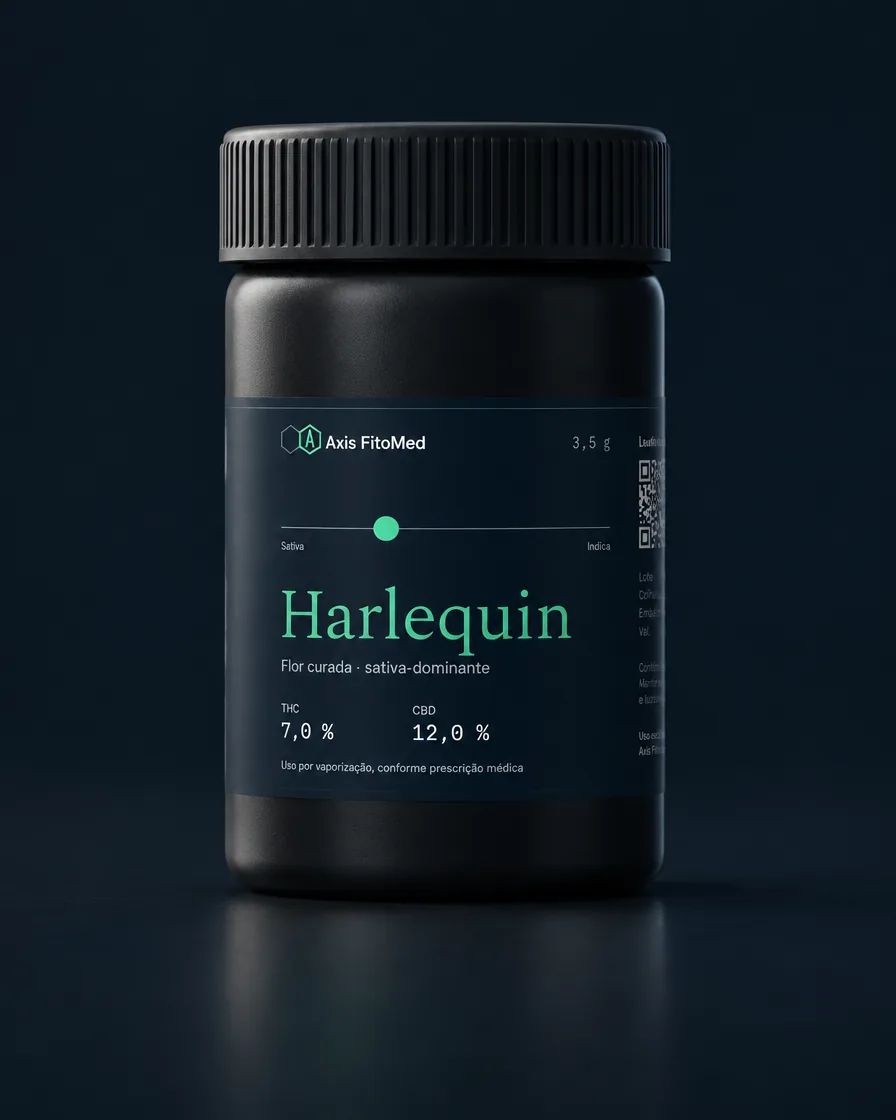
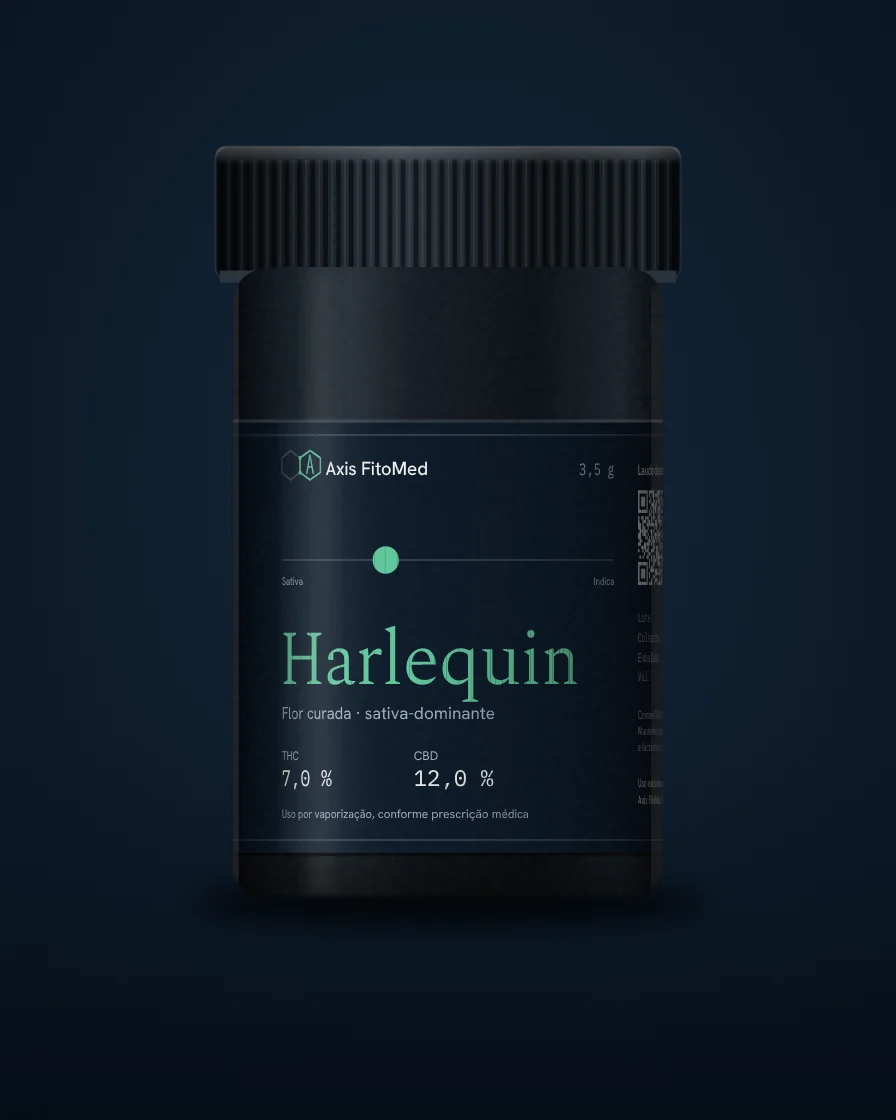
Portal: fotos de estúdio dos seis produtos, renderizadas sem custo
Render vetorial com luz lateral, grão de vidro fosco, sombra de contato
e reflexo, no mesmo enquadramento 4:5 para pote e frasco. build.js passa
a exportar as funções usadas pelo renderizador.

Claude-Session: https://claude.ai/code/session_016cEm6S3WDcKQvCvUNzk5r3

Changed region(s): [[0.2188, 0.0938, 0.75, 1.0], [0.5938, 0.8125, 0.6562, 0.875], [0.7188, 0.8125, 0.75, 0.9062]]

diff --git a/portal/js/data.js b/portal/js/data.js
@@ -18,42 +18,42 @@ window.AXIS_DATA = {
   },
   produtos: [
     {
-      id: 'oleo', tipo: 'oleo', nome: 'Óleo de CBD', sub: 'Full-spectrum · 20 : 1', eixo: ['CBD', 'THC', 0.048],
+      id: 'oleo', foto: 'img/oleo.webp', tipo: 'oleo', nome: 'Óleo de CBD', sub: 'Full-spectrum · 20 : 1', eixo: ['CBD', 'THC', 0.048],
       dados: [['CBD', '50 mg/mL'], ['THC', '2,5 mg/mL'], ['Proporção', '20 : 1']],
       tamanhos: [{ label: '30 mL', preco: 29000, g: 0, frascos: 1, units: 1 }], estoque: 24,
       lote: '2605-O', fab: '05/2026', val: '05/2027', terpenos: null,
       texto: 'Extrato full-spectrum de Cannabis sativa L. em óleo de coco (MCT). Uso sublingual, conforme prescrição. Agitar antes de usar.'
     },
     {
-      id: 'harlequin', tipo: 'flor', nome: 'Harlequin', foto: 'img/harlequin.webp', sub: 'Flor curada · sativa-dominante', eixo: ['Sativa', 'Indica', 0.32],
+      id: 'harlequin', foto: 'img/harlequin.webp', tipo: 'flor', nome: 'Harlequin', sub: 'Flor curada · sativa-dominante', eixo: ['Sativa', 'Indica', 0.32],
       dados: [['THC', '7,0 %'], ['CBD', '12,0 %'], ['Terpenos', '1,8 %']],
       tamanhos: [{ label: '3,5 g', preco: 18000, g: 3.5, units: 1 }, { label: '7 g', preco: 33000, g: 7, units: 2 }], estoque: 11,
       lote: '2610-H', colheita: '09/2026', fab: '10/2026', val: '04/2027', terpenos: [['Mirceno', '0,62 %'], ['α-Pineno', '0,41 %'], ['β-Cariofileno', '0,30 %']],
       texto: 'Rica em CBD com THC presente. Perfil claro, uso diurno. Cultivo indoor, secagem lenta e cura de 30 dias.'
     },
     {
-      id: 'acdc', tipo: 'flor', nome: 'ACDC', sub: 'Flor curada · sativa-dominante', eixo: ['Sativa', 'Indica', 0.3],
+      id: 'acdc', foto: 'img/acdc.webp', tipo: 'flor', nome: 'ACDC', sub: 'Flor curada · sativa-dominante', eixo: ['Sativa', 'Indica', 0.3],
       dados: [['THC', '0,6 %'], ['CBD', '14,0 %'], ['Terpenos', '1,6 %']],
       tamanhos: [{ label: '3,5 g', preco: 18000, g: 3.5, units: 1 }, { label: '7 g', preco: 33000, g: 7, units: 2 }], estoque: 4,
       lote: '2610-D', colheita: '09/2026', fab: '10/2026', val: '04/2027', terpenos: [['Mirceno', '0,50 %'], ['α-Pineno', '0,40 %'], ['β-Cariofileno', '0,30 %']],
       texto: 'CBD quase puro, sem efeito psicoativo perceptível. Indicada quando o THC não é desejado.'
     },
     {
-      id: 'blue-dream', tipo: 'flor', nome: 'Blue Dream', sub: 'Flor curada · híbrida, sativa-dominante', eixo: ['Sativa', 'Indica', 0.42],
+      id: 'blue-dream', foto: 'img/blue-dream.webp', tipo: 'flor', nome: 'Blue Dream', sub: 'Flor curada · híbrida, sativa-dominante', eixo: ['Sativa', 'Indica', 0.42],
       dados: [['THC', '19,0 %'], ['CBD', '0,40 %'], ['Terpenos', '2,1 %']],
       tamanhos: [{ label: '3,5 g', preco: 21000, g: 3.5, units: 1 }, { label: '7 g', preco: 39000, g: 7, units: 2 }], estoque: 6,
       lote: '2610-B', colheita: '09/2026', fab: '10/2026', val: '04/2027', terpenos: [['Mirceno', '0,74 %'], ['α-Pineno', '0,48 %'], ['β-Cariofileno', '0,33 %']],
       texto: 'Híbrida clássica de THC alto. Equilíbrio entre alerta e relaxamento; uso diurno ou vespertino.'
     },
     {
-      id: 'wedding-cake', tipo: 'flor', nome: 'Wedding Cake', sub: 'Flor curada · híbrida, indica-dominante', eixo: ['Sativa', 'Indica', 0.7],
+      id: 'wedding-cake', foto: 'img/wedding-cake.webp', tipo: 'flor', nome: 'Wedding Cake', sub: 'Flor curada · híbrida, indica-dominante', eixo: ['Sativa', 'Indica', 0.7],
       dados: [['THC', '22,0 %'], ['CBD', '0,20 %'], ['Terpenos', '2,3 %']],
       tamanhos: [{ label: '3,5 g', preco: 21000, g: 3.5, units: 1 }, { label: '7 g', preco: 39000, g: 7, units: 2 }], estoque: 9,
       lote: '2610-W', colheita: '09/2026', fab: '10/2026', val: '04/2027', terpenos: [['Limoneno', '0,80 %'], ['β-Cariofileno', '0,60 %'], ['Linalol', '0,30 %']],
       texto: 'THC alto, perfil relaxante. Indicada para fim de dia; pode causar sonolência.'
     },
     {
-      id: 'northern-lights', tipo: 'flor', nome: 'Northern Lights', sub: 'Flor curada · indica', eixo: ['Sativa', 'Indica', 0.9],
+      id: 'northern-lights', foto: 'img/northern-lights.webp', tipo: 'flor', nome: 'Northern Lights', sub: 'Flor curada · indica', eixo: ['Sativa', 'Indica', 0.9],
       dados: [['THC', '18,0 %'], ['CBD', '0,30 %'], ['Terpenos', '1,9 %']],
       tamanhos: [{ label: '3,5 g', preco: 21000, g: 3.5, units: 1 }, { label: '7 g', preco: 39000, g: 7, units: 2 }], estoque: 0, previsao: '20/11/2026',
       lote: '2610-N', colheita: '09/2026', fab: '10/2026', val: '04/2027', terpenos: [['Mirceno', '0,81 %'], ['β-Cariofileno', '0,38 %'], ['Humuleno', '0,19 %']],

diff --git a/branding/oleo-cbd/build.js b/branding/oleo-cbd/build.js
@@ -476,6 +476,9 @@ function writePortalMockups() {
   fs.writeFileSync(path.join(dir, 'mockups.js'), '// Gerado por branding/oleo-cbd/build.js. Não editar à mão.\nwindow.AXIS_MOCKUPS = ' + JSON.stringify(m) + ';\n');
 }
 
+module.exports = { OIL, FLOWERS, PORTAL_EXTRA, oilBody, flowerBody, wrap, FONT_CSS, GFONTS, NAVY, CREAM, MUTED };
+if (require.main !== module) return;
+
 // ---------- Escrita ----------
 writePortalMockups();
 fs.writeFileSync(path.join(OUT, 'rotulo-oleo-cbd.svg'), svgFile(95, 45, 'Axis FitoMed · Óleo de CBD 30 mL · rótulo 95 × 45 mm', oilBody(OIL)));
